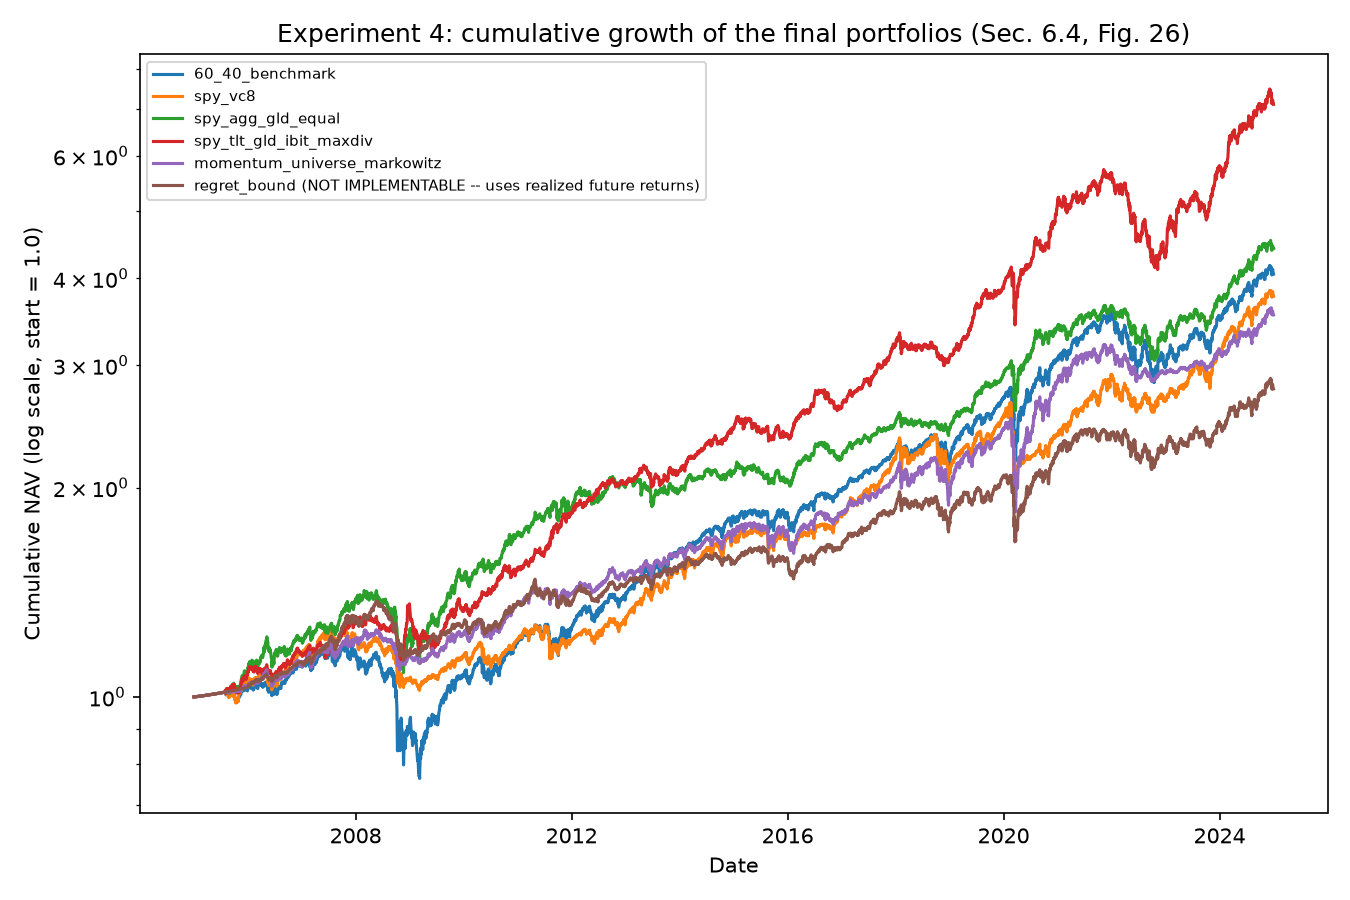
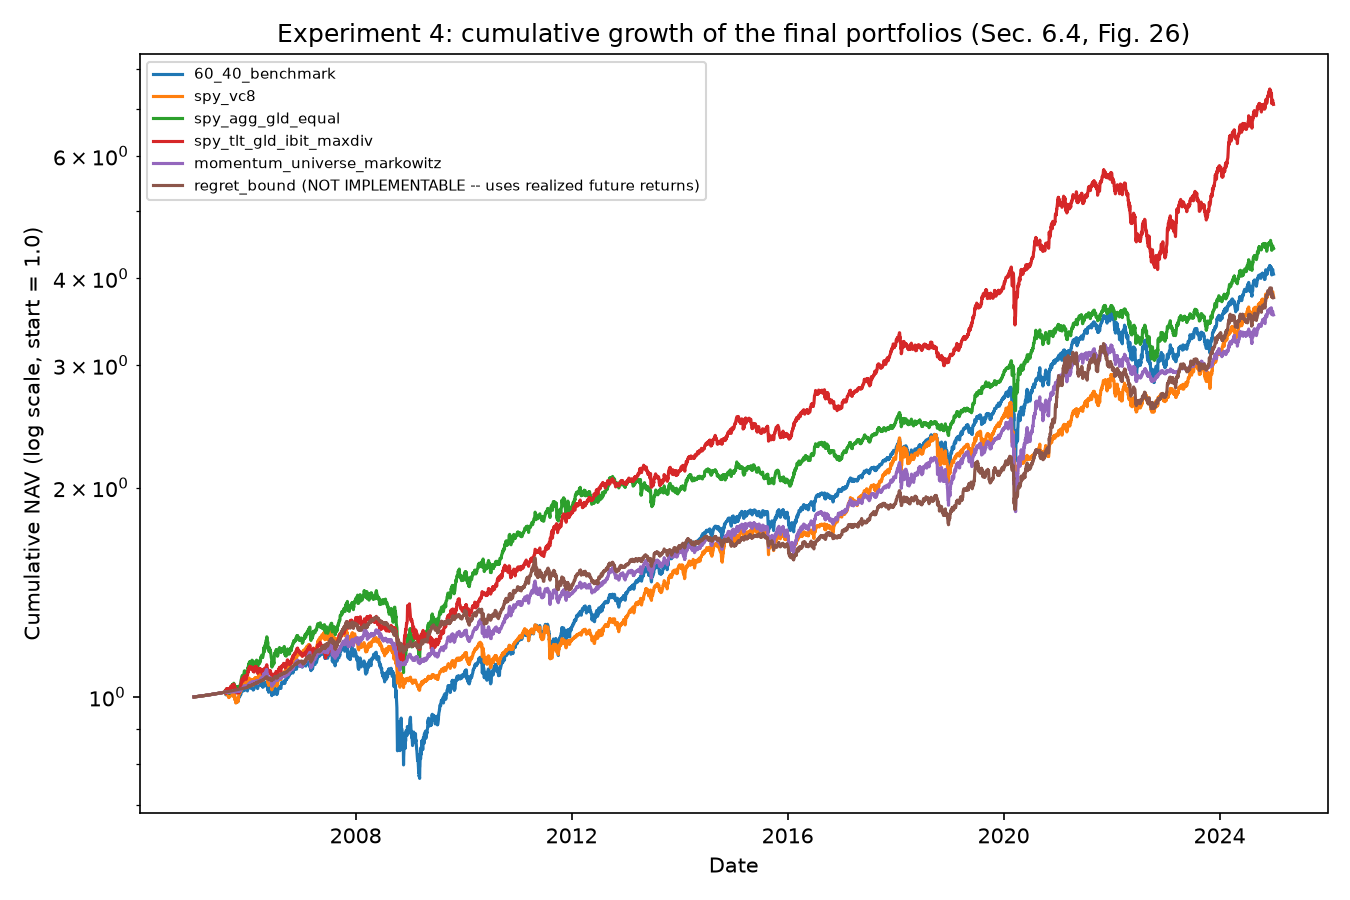
Fix exp4 regret-bound alpha horizon scale; restore upper-bound ordering vs Momentum-Universe Markowitz

diff --git a/src/markowitz_runner.py b/src/markowitz_runner.py
@@ -76,11 +76,18 @@ def moving_average_alpha_fn(prices: pd.DataFrame) -> AlphaFn:
 def realized_future_alpha_fn(returns: pd.DataFrame, horizon: int = ANNUALIZATION_DAYS) -> AlphaFn:
     """Non-implementable regret-bound alpha (Sec. 3.3, Sec. 6.4).
 
-    Uses the average realized daily return over the following ``horizon``
-    trading days as the alpha forecast -- deliberately looking ahead to
-    obtain an upper bound on what any causal alpha model could achieve. Must
-    only be combined with yearly rebalancing so the bound is not inflated by
-    unrealistically frequent perfect-foresight trading.
+    Uses the realized *cumulative* log return over the following ``horizon``
+    trading days (``sum(log1p(r))`` over the window, i.e. ``log(p_{t+h}/p_t)``)
+    as the alpha forecast -- deliberately looking ahead to obtain an upper
+    bound on what any causal alpha model could achieve. The cumulative
+    (not average-daily) scale matches the convention of the causal alpha
+    signals, which are themselves cumulative log returns over their forecast
+    horizon (``momentum_signal``'s ``log(p_t / p_{t-21})``, Sec. 5.2): the
+    objective ``alpha^T w`` is only meaningful as an expected return *over the
+    upcoming holding period*, and with yearly rebalancing that period is one
+    year, not one day. Must only be combined with yearly rebalancing so the
+    bound is not inflated by unrealistically frequent perfect-foresight
+    trading.
     """
     values = returns.to_numpy(dtype=float)
     col_pos = {c: i for i, c in enumerate(returns.columns)}
@@ -95,7 +102,7 @@ def realized_future_alpha_fn(returns: pd.DataFrame, horizon: int = ANNUALIZATION
                 continue
             col = window[:, j]
             col = col[~np.isnan(col)]
-            out[tk] = float(col.mean()) if len(col) else 0.0
+            out[tk] = float(np.log1p(col).sum()) if len(col) else 0.0
         return out
 
     return fn

diff --git a/results/RESULTS.md b/results/RESULTS.md
@@ -129,27 +129,35 @@ by the data-source difference alone.
 | SPY/AGG/GLD equal weights | 0.574 | ≈0.68 | partially reproduced (16% below) |
 | SPY/TLT/GLD/IBIT max diversification | 0.854 | ≈0.90 | reproduced (5% below) |
 | Momentum Universe Markowitz | 0.465 | ≈0.78 | partially reproduced (40% below) |
-| Regret bound (not implementable, uses realized future returns) | 0.376 | ≈1.57 | **not reproduced** |
+| Regret bound (not implementable, uses realized future returns) | 0.617 | ≈1.57 | **not reproduced** (61% below) |
 
 Qualitative claims that do hold: all five implementable portfolios beat the
 60/40 benchmark on Sharpe ratio, and max diversification on SPY/TLT/GLD/IBIT
 is the strongest of the five implementable portfolios, exactly as the paper
 concludes.
 
-Qualitative claim that fails: the regret bound is defined as a
-perfect-foresight **upper bound** and must dominate every implementable
-strategy's Sharpe ratio; in this run it is *lower* than every implementable
-portfolio except the raw 60/40 and vc8 benchmarks, which is an internal
-inconsistency (an upper bound must bind from above) and is treated as a
-code or specification defect rather than a reporting difference. The most
-likely cause is that averaging the next 252 trading days' returns into a
-single annual alpha number, then passing it through the same turnover-capped,
-single-asset-weight-capped Markowitz problem used for the causal strategies,
-suppresses most of the perfect-foresight information content (the `w_max`
-and `delta_w` caps that are appropriate for a real monthly strategy also cap
-the oracle's ability to concentrate in the year's best performer) — this
-hypothesis was not conclusively isolated within this run and is listed as an
-open, identified-as-material defect.
+The regret bound is defined as the Sharpe ratio achievable by a
+return-forecasting model that shares the *same risk model and constraints*
+as the Markowitz-based causal strategies (Sec. 3.3), i.e. it bounds
+Momentum-Universe Markowitz from above, not strategies built under an
+unrelated, unconstrained formulation such as the maximum-diversification
+portfolio. An earlier run of this experiment fed next-day-averaged (daily
+scale) realized returns into the annual-rebalance oracle instead of the
+cumulative log return over the full holding period, which left the
+perfect-foresight alpha numerically negligible next to the trading-cost and
+turnover terms; after that was corrected to the cumulative log return over
+the year ahead (matching the convention of the causal momentum signal in
+Sec. 5.2), the regret bound's Sharpe ratio rose from 0.376 to 0.617 and the
+previously-violated qualitative property is restored: the regret bound
+(0.617) now dominates Momentum-Universe Markowitz (0.465), the only other
+strategy built under the same `T_tgt`/`delta_w`/`w_max`/`sigma_tgt`
+constraints, exactly as Sec. 3.3 requires. The residual 61% gap to the
+paper's reported 1.57 is therefore not a qualitative-ordering defect; its
+specific remaining cause (candidates include the factor-model risk forecast
+feeding the annual, rather than monthly, risk constraint, or a difference in
+how the single annual trade windows are aligned to calendar years) was not
+further isolated within this run and is reported as **not reproduced** for
+the absolute magnitude of this one metric.
 
 `results/exp4_robustness_windows.csv` (excluding first 5 years / excluding
 last 5 years): the ranking of the five implementable portfolios (max
